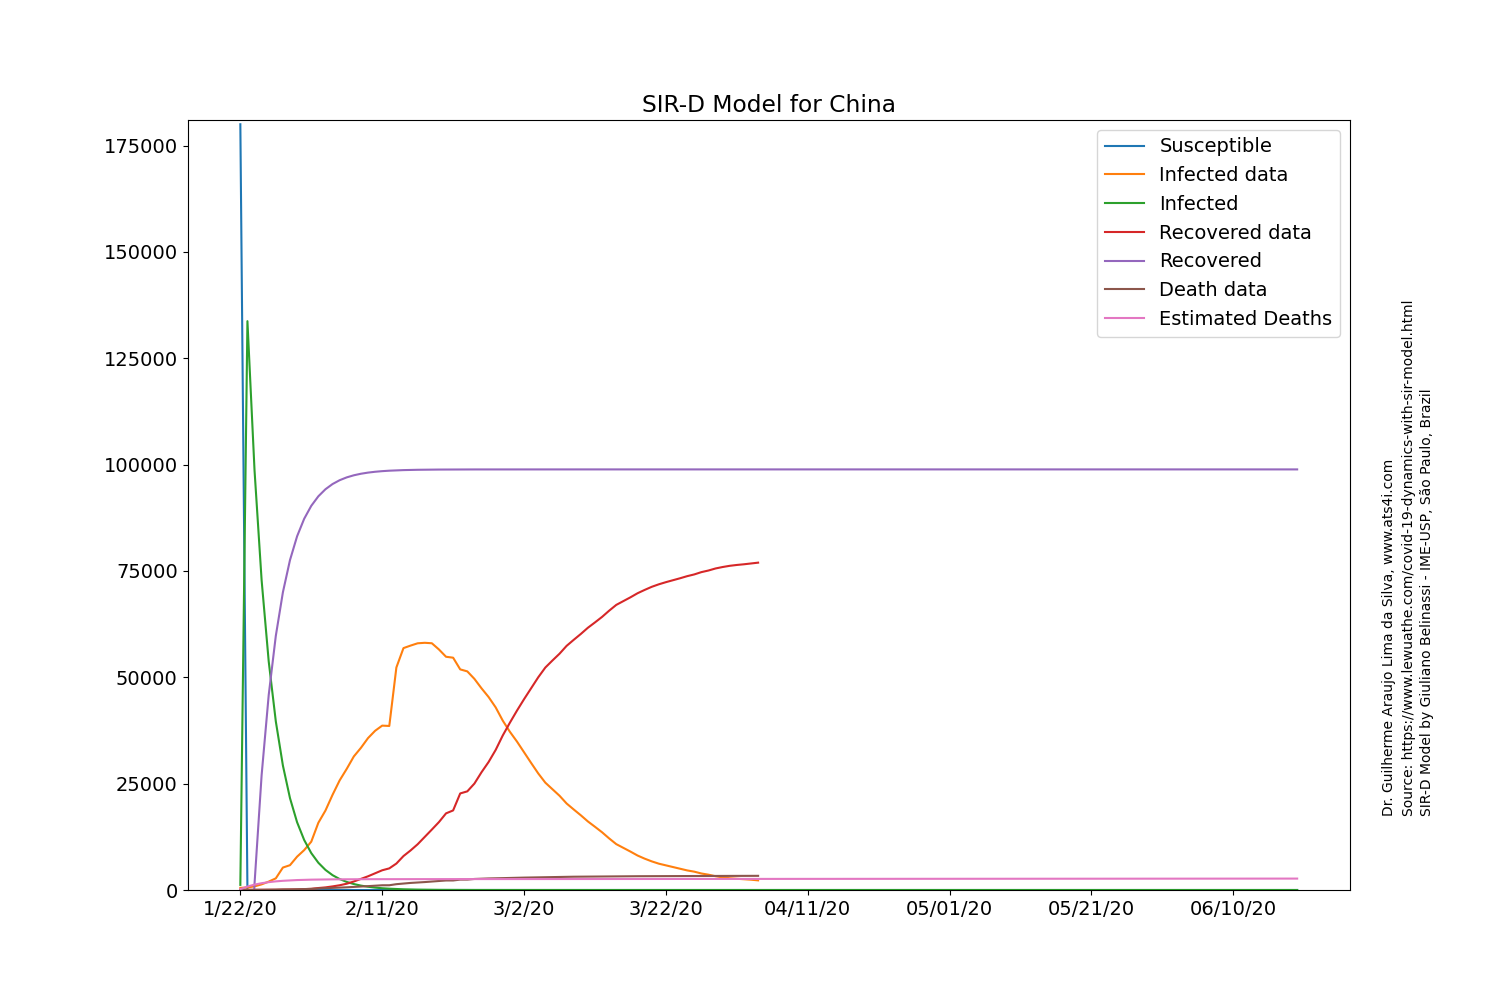
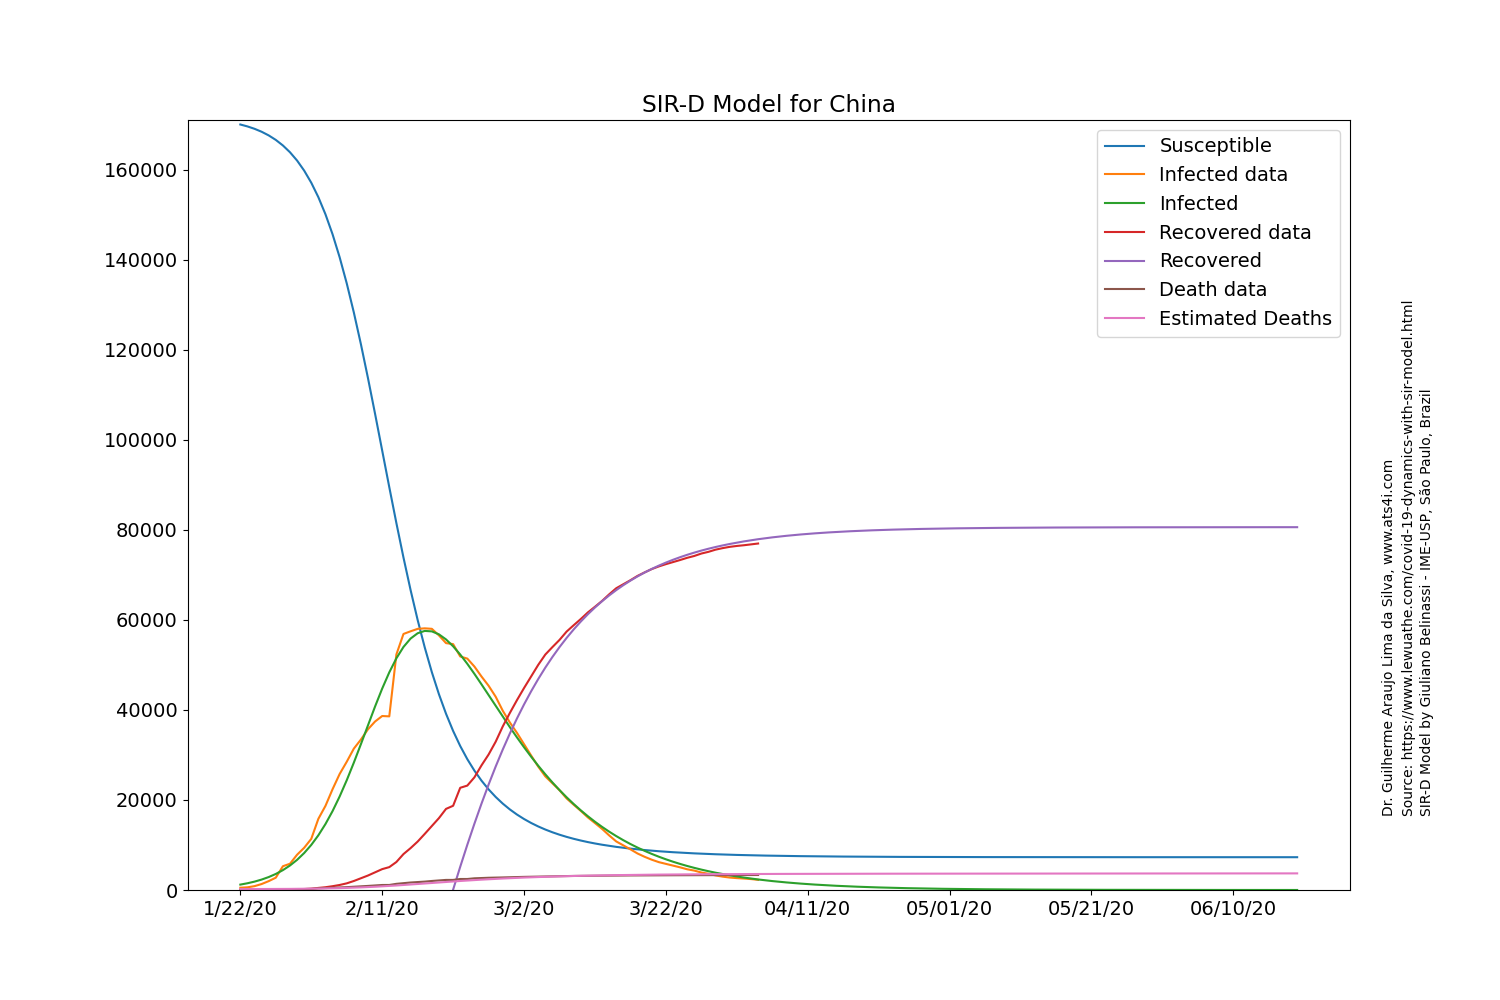
China figure

diff --git a/dataAndModelsCovid19.py b/dataAndModelsCovid19.py
@@ -330,7 +330,7 @@ def lossOdeint(point, data, recovered, death, s_0, i_0, r_0, d_0):
     #weight for cases
     u = 0.25
     #weight for recovered
-    v = 0.02 ##Brazil France 0.04 China 0.01 (it has a lag in recoveries) Others 0.15
+    v = 0.01 ##Brazil France 0.02 China 0.01 (it has a lag in recoveries) Others 0.15
     #weight for deaths
     w = 1 - u - v
     return u*l1 + v*l2 + w*l3
@@ -444,7 +444,7 @@ country="Brazil"
 # "United Kingdom"
 # "US"
 # Countries above are already adjusted
-countrySIRD="France"
+countrySIRD="China"
 
 # For other countries you can run at command line
 # but be sure to define S_0, I_0, R_0, K_0
